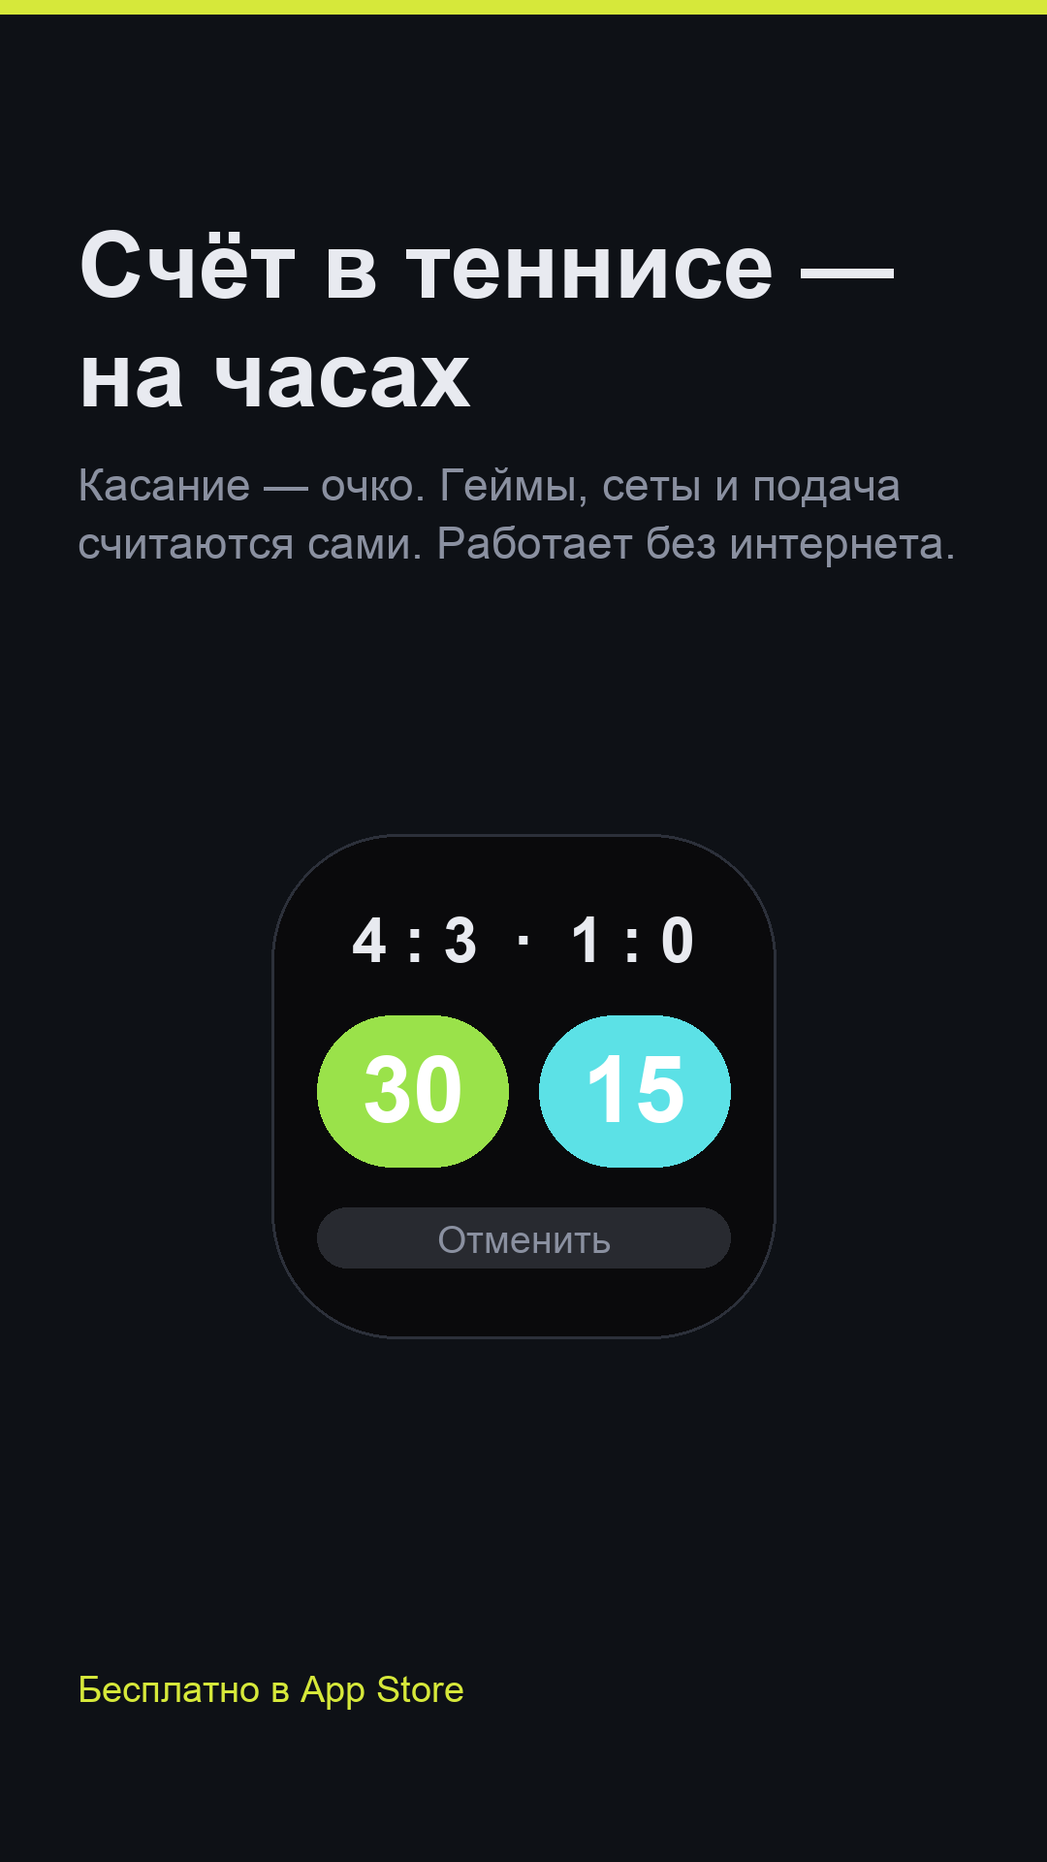
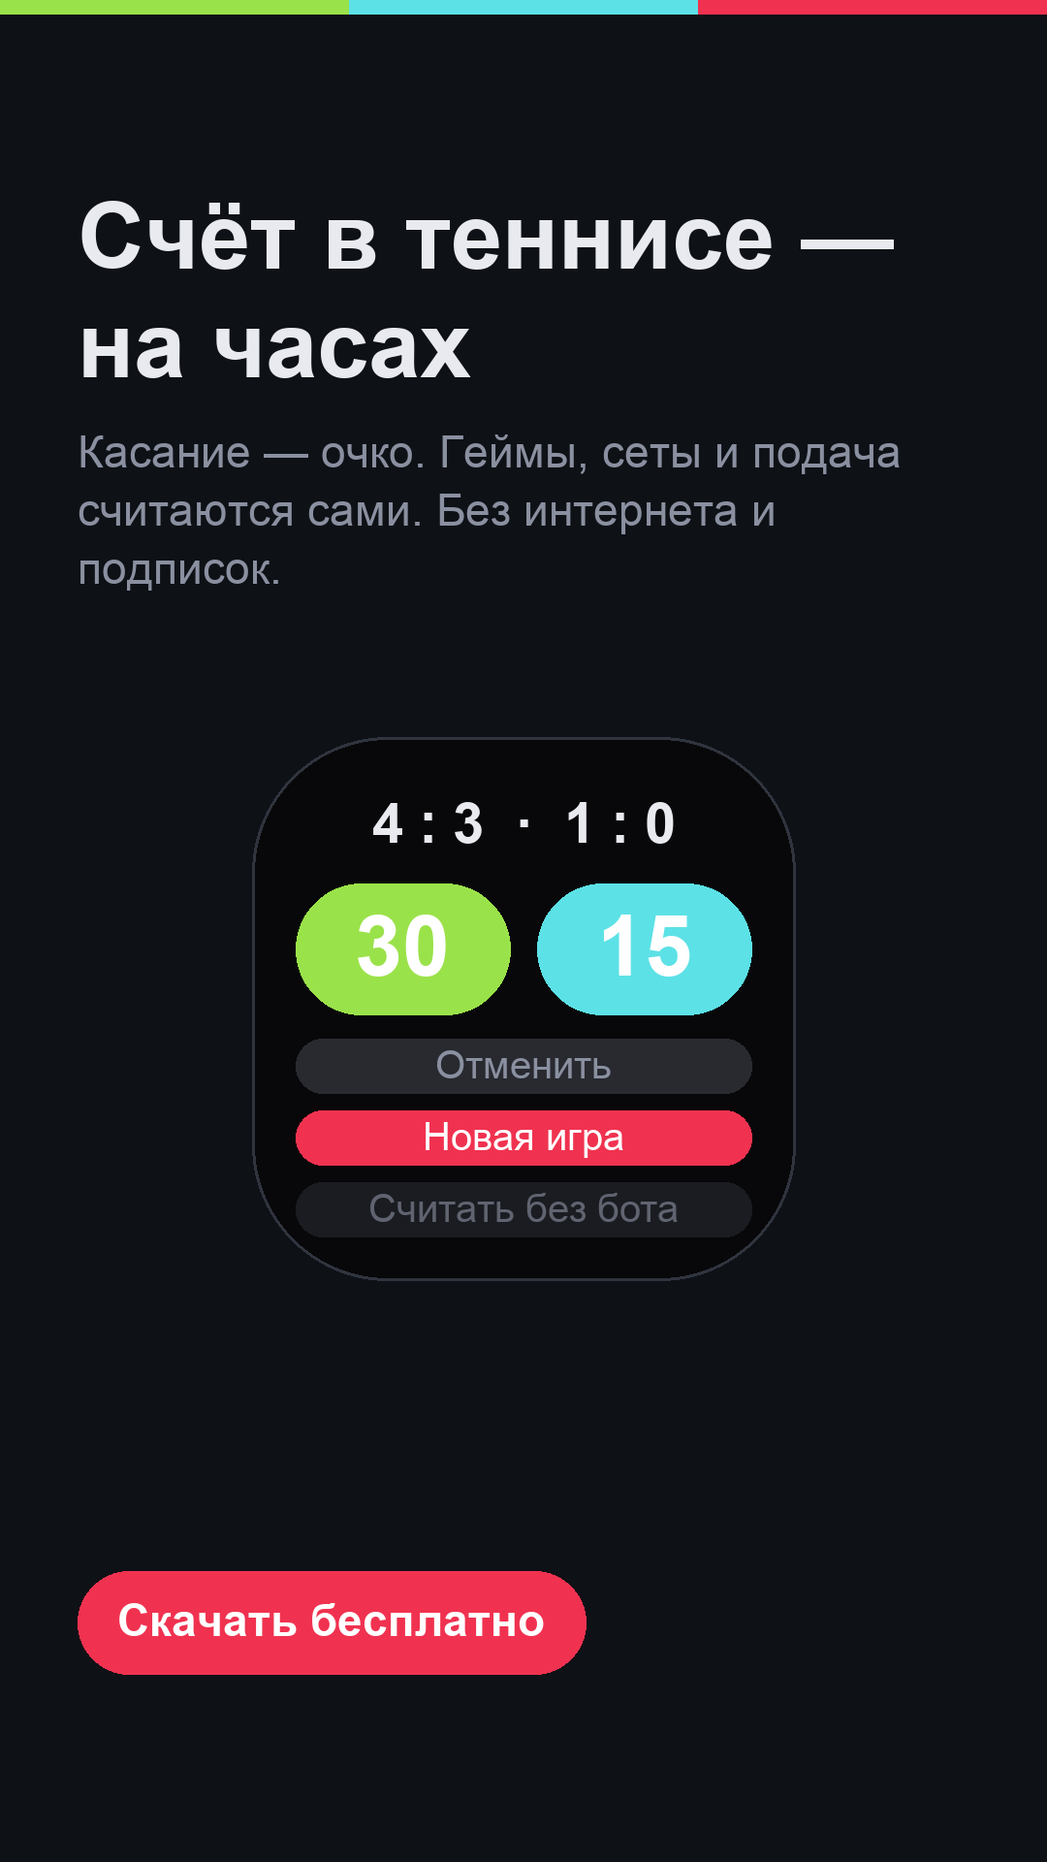
Рекламная карточка: вся палитра приложения и призыв на самой картинке
Красную «Новую игру» я в первой версии выбросила — и экран стал
плоским: две холодные клавиши и серый низ. Цвета здесь не украшение, а
смысл: зелёная — своё очко, голубая — чужое, красная — начать заново.

Полоса сверху теперь из тех же трёх цветов: она задаёт палитру раньше,
чем глаз дойдёт до экрана часов. Внизу красная кнопка «Скачать
бесплатно» — карточка должна звать, а не сообщать.

Тексты переписаны в том же регистре: «уже доступно», «совершенно
бесплатно», «без интернета и подписок».

diff --git a/tools/make_card.py b/tools/make_card.py
@@ -43,8 +43,11 @@ ACCENT = (214, 232, 58)
 # Цвета с настоящего экрана приложения: своё очко — зелёное, чужое —
 # голубое. Карточка должна показывать то, что человек увидит на часах,
 # иначе она обещает одно, а он получает другое.
-MINE = (154, 226, 74)
-THEIRS = (92, 225, 230)
+MINE = (154, 226, 74)        # своё очко
+THEIRS = (92, 225, 230)      # очко соперника
+FRESH = (240, 50, 80)        # «Новая игра» — единственная красная
+MUTED = (40, 42, 48)         # «Отменить»
+GHOST = (26, 28, 33)         # «Считать без бота», приглушённая
 
 FONTS = "/System/Library/Fonts/Supplemental/"
 
@@ -83,119 +86,141 @@ def fitted(draw, text: str, name: str, start: int, limit: float):
     return font(name, 10)
 
 
-def watch(draw, x: int, y: int, size: int, top: str, bottom: str):
-    """Экран часов, как он выглядит в игре.
+def key(draw, box, colour, text, typeface, ink=(255, 255, 255)):
+    """Клавиша с подписью по центру"""
+    left, top, right, bottom = box
+    height = bottom - top
+    draw.rounded_rectangle(box, radius=height / 2, fill=colour)
+    width = draw.textlength(text, font=typeface)
+    draw.text((left + (right - left - width) / 2,
+               top + (height - typeface.size * 1.2) / 2),
+              text, font=typeface, fill=ink)
 
-    Сверху строка геймов и сетов, под ней два очка — своё и соперника,
-    каждое на своей клавише. Так устроено настоящее приложение: очко
-    ставится касанием цветного прямоугольника, и именно это надо
-    показать, а не абстрактный счёт посередине.
+
+def watch(draw, x: int, y: int, size: int, top: str, bottom: str):
+    """Экран часов целиком, со всеми клавишами.
+
+    Цвета не украшение, а смысл: зелёная — своё очко, голубая — чужое,
+    красная — начать заново. Выкинуть красную, как я сделала в первой
+    версии, значит сломать схему: остаются две холодные клавиши и серый
+    низ, и экран выглядит плоским, хотя в жизни он яркий.
     """
     draw.rounded_rectangle([x, y, x + size, y + size], radius=size // 4,
-                           fill=(10, 10, 12), outline=(44, 48, 58), width=3)
+                           fill=(8, 8, 10), outline=(48, 52, 62), width=3)
 
-    line = fitted(draw, top, "Arial Bold.ttf", size // 8, size * 0.7)
+    line = fitted(draw, top, "Arial Bold.ttf", int(size * 0.105), size * 0.66)
     width = draw.textlength(top, font=line)
-    draw.text((x + (size - width) / 2, y + size * 0.14), top, font=line,
+    draw.text((x + (size - width) / 2, y + size * 0.10), top, font=line,
               fill=INK)
 
-    # Две клавиши в ряд, с полями по краям и просветом посередине.
-    pad = size * 0.09
-    gap = size * 0.06
+    pad = size * 0.08
+    gap = size * 0.05
     key_w = (size - pad * 2 - gap) / 2
-    key_h = size * 0.30
-    key_y = y + size * 0.36
+    key_h = size * 0.24
+    key_y = y + size * 0.27
 
     points = [p.strip() for p in bottom.split("|")]
-    if len(points) < 2:
-        points = (points + ["0", "0"])[:2]
-
+    points = (points + ["0", "0"])[:2]
     for i, (value, colour) in enumerate(zip(points, (MINE, THEIRS))):
         left = x + pad + i * (key_w + gap)
-        draw.rounded_rectangle([left, key_y, left + key_w, key_y + key_h],
-                               radius=key_h // 2, fill=colour)
-        face = fitted(draw, value, "Arial Bold.ttf", int(key_h * 0.62),
-                      key_w * 0.7)
-        width = draw.textlength(value, font=face)
-        top_pad = (key_h - face.size * 1.15) / 2
-        draw.text((left + (key_w - width) / 2, key_y + top_pad), value,
-                  font=face, fill=(255, 255, 255))
+        face = fitted(draw, value, "Arial Bold.ttf", int(key_h * 0.66),
+                      key_w * 0.62)
+        key(draw, [left, key_y, left + key_w, key_y + key_h], colour,
+            value, face)
 
-    # Нижняя клавиша — «Отменить»: она есть на экране и объясняет, что
-    # промах не страшен.
-    bar_y = key_y + key_h + size * 0.08
-    draw.rounded_rectangle([x + pad, bar_y, x + size - pad,
-                            bar_y + size * 0.12],
-                           radius=size * 0.06, fill=(40, 42, 48))
-    label = fitted(draw, "Отменить", "Arial.ttf", int(size * 0.075),
-                   size * 0.5)
-    width = draw.textlength("Отменить", font=label)
-    draw.text((x + (size - width) / 2, bar_y + size * 0.021), "Отменить",
-              font=label, fill=DIM)
+    # Три полосы под очками — ровно как на часах.
+    # Три полосы должны уложиться до скругления: нижняя иначе уезжает
+    # в угол и выглядит обрезанной.
+    bar_h = size * 0.10
+    step = bar_h + size * 0.032
+    small = font("Arial.ttf", int(size * 0.072))
+    rows = [("Отменить", MUTED, DIM),
+            ("Новая игра", FRESH, (255, 255, 255)),
+            ("Считать без бота", GHOST, (96, 100, 112))]
+    for i, (label, colour, ink) in enumerate(rows):
+        bar_y = key_y + key_h + size * 0.045 + i * step
+        key(draw, [x + pad, bar_y, x + size - pad, bar_y + bar_h],
+            colour, label, small, ink)
+
+
+def pill(draw, x: int, y: int, text: str, size: int, colour=FRESH):
+    """Кнопка-призыв на самой карточке: глаз цепляется за цвет раньше,
+    чем читает буквы, и понимает, что действие бесплатное."""
+    typeface = font("Arial Bold.ttf", size)
+    width = draw.textlength(text, font=typeface)
+    pad_x, pad_y = size * 0.9, size * 0.55
+    draw.rounded_rectangle(
+        [x, y, x + width + pad_x * 2, y + size * 1.2 + pad_y * 2],
+        radius=(size * 1.2 + pad_y * 2) / 2, fill=colour)
+    draw.text((x + pad_x, y + pad_y), text, font=typeface,
+              fill=(255, 255, 255))
+    return y + size * 1.2 + pad_y * 2
 
 
 def card(title: str, subtitle: str = "", note: str = "",
          name: str = "card.png", face: tuple = None,
          shape: str = "post") -> str:
+    """Рекламная карточка: заголовок, экран приложения и призыв.
+
+    Note здесь — текст на красной кнопке, а не подпись мелким шрифтом:
+    карточка должна звать, а не сообщать.
+    """
     size = SHAPES.get(shape, SHAPES["post"])
     tall = shape == "story"
 
     image = Image.new("RGB", size, BACK)
     draw = ImageDraw.Draw(image)
 
-    # Полоса сверху вместо логотипа: узнаваемо, ничего не весит и не
-    # спорит с текстом.
-    draw.rectangle([0, 0, size[0], 10 if not tall else 14], fill=ACCENT)
+    # Полоса сверху — из цветов приложения, а не одна жёлтая: она задаёт
+    # палитру раньше, чем глаз дойдёт до экрана часов.
+    band = 14 if tall else 10
+    parts = [MINE, THEIRS, FRESH]
+    step = size[0] / len(parts)
+    for i, colour in enumerate(parts):
+        draw.rectangle([i * step, 0, (i + 1) * step, band], fill=colour)
 
-    margin = 90 if not tall else 80
-    big = font("Arial Bold.ttf", 78 if not tall else 96)
-    mid = font("Arial.ttf", 40 if not tall else 46)
-    small = font("Arial.ttf", 30 if not tall else 38)
+    margin = 80 if tall else 90
+    big = font("Arial Bold.ttf", 96 if tall else 80)
+    mid = font("Arial.ttf", 46 if tall else 38)
 
     if tall:
-        # В истории читают сверху вниз и большим пальцем: заголовок
-        # вверху, циферблат в середине, ссылка внизу — там, где палец.
         width = size[0] - margin * 2
-        y = 220
+        y = 190
         for line in wrap(draw, title, big, width):
             draw.text((margin, y), line, font=big, fill=INK)
             y += 112
 
         if subtitle:
-            y += 30
+            y += 26
             for line in wrap(draw, subtitle, mid, width):
                 draw.text((margin, y), line, font=mid, fill=DIM)
                 y += 60
 
         if face:
-            watch(draw, (size[0] - 520) // 2, 860, 520, face[0], face[1])
+            watch(draw, (size[0] - 560) // 2, 760, 560, face[0], face[1])
 
         if note:
-            for i, line in enumerate(wrap(draw, note, small, width)):
-                draw.text((margin, 1720 + i * 48), line, font=small,
-                          fill=ACCENT)
+            pill(draw, margin, 1620, note, 46)
     else:
-        # Под циферблат отводим правую треть: текст в неё не заходит,
-        # иначе строки ломаются об картинку.
-        width = size[0] - margin * 2 - (360 if face else 0)
-        y = 150
+        screen = 420 if face else 0
+        width = size[0] - margin * 2 - (screen + 40 if face else 0)
+        y = 130
         if face:
-            watch(draw, size[0] - margin - 300, 190, 300, face[0], face[1])
+            watch(draw, size[0] - margin - screen, 150, screen,
+                  face[0], face[1])
 
         for line in wrap(draw, title, big, width):
             draw.text((margin, y), line, font=big, fill=INK)
-            y += 92
+            y += 94
 
         if subtitle:
-            y += 24
+            y += 20
             for line in wrap(draw, subtitle, mid, width):
                 draw.text((margin, y), line, font=mid, fill=DIM)
                 y += 52
 
         if note:
-            # Приписка прижата к низу: так она читается как подпись, а не
-            # как продолжение мысли.
-            draw.text((margin, size[1] - 90), note, font=small, fill=ACCENT)
+            pill(draw, margin, size[1] - 150, note, 42)
 
     os.makedirs(OUT, exist_ok=True)
     path = os.path.join(OUT, name)

diff --git a/data/post_app_short.md b/data/post_app_short.md
@@ -1,53 +1,48 @@
-# Задача 1 — история (сторис) в Telegram
+# Задача 1 — история (сторис)
 
 Картинка: data/cards/tennis_story.png (1080×1920)
 
-Подпись поверх истории — коротко, потому что в истории не читают, а
-скользят:
+Подпись поверх истории:
 
-⌚ Выложила приложение: счёт в теннисе прямо на часах. Бесплатно.
+⌚ Уже доступно! Счёт в теннисе прямо на часах — совершенно бесплатно.
+Без интернета и подписок. Насладись игрой, считать буду я.
 
-Ссылку добавьте вложением истории (значок скрепки → ссылка):
-https://apps.apple.com/app/id6810779514
-
-Если ссылки в историях у аккаунта нет, кладите её первым комментарием
-или в подпись текстом — в историях она не кликается, но люди
-переписывают короткие адреса.
+Ссылка вложением истории: https://apps.apple.com/app/id6810779514
 
 
 # Задача 2 — пост в «Акцент»
 
 Картинка: data/cards/tennis_app.png (1280×720)
 
-Текст:
+⌚ **Прямо сейчас: счёт в теннисе — на часах**
 
-⌚ **Счёт в теннисе — на часах**
+**Уже доступно для скачивания.** Совершенно бесплатно.
 
-Выложила приложение в App Store: Tennis Score Umpire. Бесплатно, для Apple Watch.
+Касание — очко. Геймы, сеты, тай-брейк и очередь подачи приложение
+считает само. Промахнулись — «Отменить», и счёт на месте.
 
-Играешь, отвлекаешься на розыгрыш — и уже спорите, было 30:15 или 40:15. Телефон в сумке, судьи нет. Теперь счёт на запястье: касание — очко.
+**Без интернета и без подписок.** На корте сеть не нужна, реклама не
+всплывает, платить не за что.
 
-Настоящий счёт с ровно и тай-брейком, геймы и сеты считаются сами, очередь подачи тоже. Есть отмена — по часам легко промахнуться. Работает без интернета.
+Насладись игрой — счёт возьму на себя.
 
-Нужны Apple Watch. Интерфейс на русском.
-
-Если играете — поставьте и скажите, что не так. Первые десять человек полезнее первой тысячи.
-
-
-# Как опубликовать пост одной командой
-
-Отправьте боту:
-
-/срочно ⌚ <b>Счёт в теннисе — на часах</b>
-
-Выложила приложение в App Store: Tennis Score Umpire. Бесплатно, для Apple Watch.
-
-Играешь, отвлекаешься на розыгрыш — и уже спорите, было 30:15 или 40:15. Телефон в сумке, судьи нет. Теперь счёт на запястье: касание — очко.
-
-Настоящий счёт с ровно и тай-брейком, геймы и сеты считаются сами, очередь подачи тоже. Есть отмена — по часам легко промахнуться. Работает без интернета.
+👉 Скачать: https://apps.apple.com/app/id6810779514
 
 Нужны Apple Watch. Интерфейс на русском.
 
-Если играете — поставьте и скажите, что не так. Первые десять человек полезнее первой тысячи.
-кнопка: Поставить бесплатно | https://apps.apple.com/app/id6810779514
+
+# Командой в бота
+
+/срочно ⌚ <b>Прямо сейчас: счёт в теннисе — на часах</b>
+
+<b>Уже доступно для скачивания.</b> Совершенно бесплатно.
+
+Касание — очко. Геймы, сеты, тай-брейк и очередь подачи приложение считает само. Промахнулись — «Отменить», и счёт на месте.
+
+<b>Без интернета и без подписок.</b> На корте сеть не нужна, реклама не всплывает, платить не за что.
+
+Насладись игрой — счёт возьму на себя.
+
+Нужны Apple Watch. Интерфейс на русском.
+кнопка: Скачать бесплатно | https://apps.apple.com/app/id6810779514
 фото: data/cards/tennis_app.png
